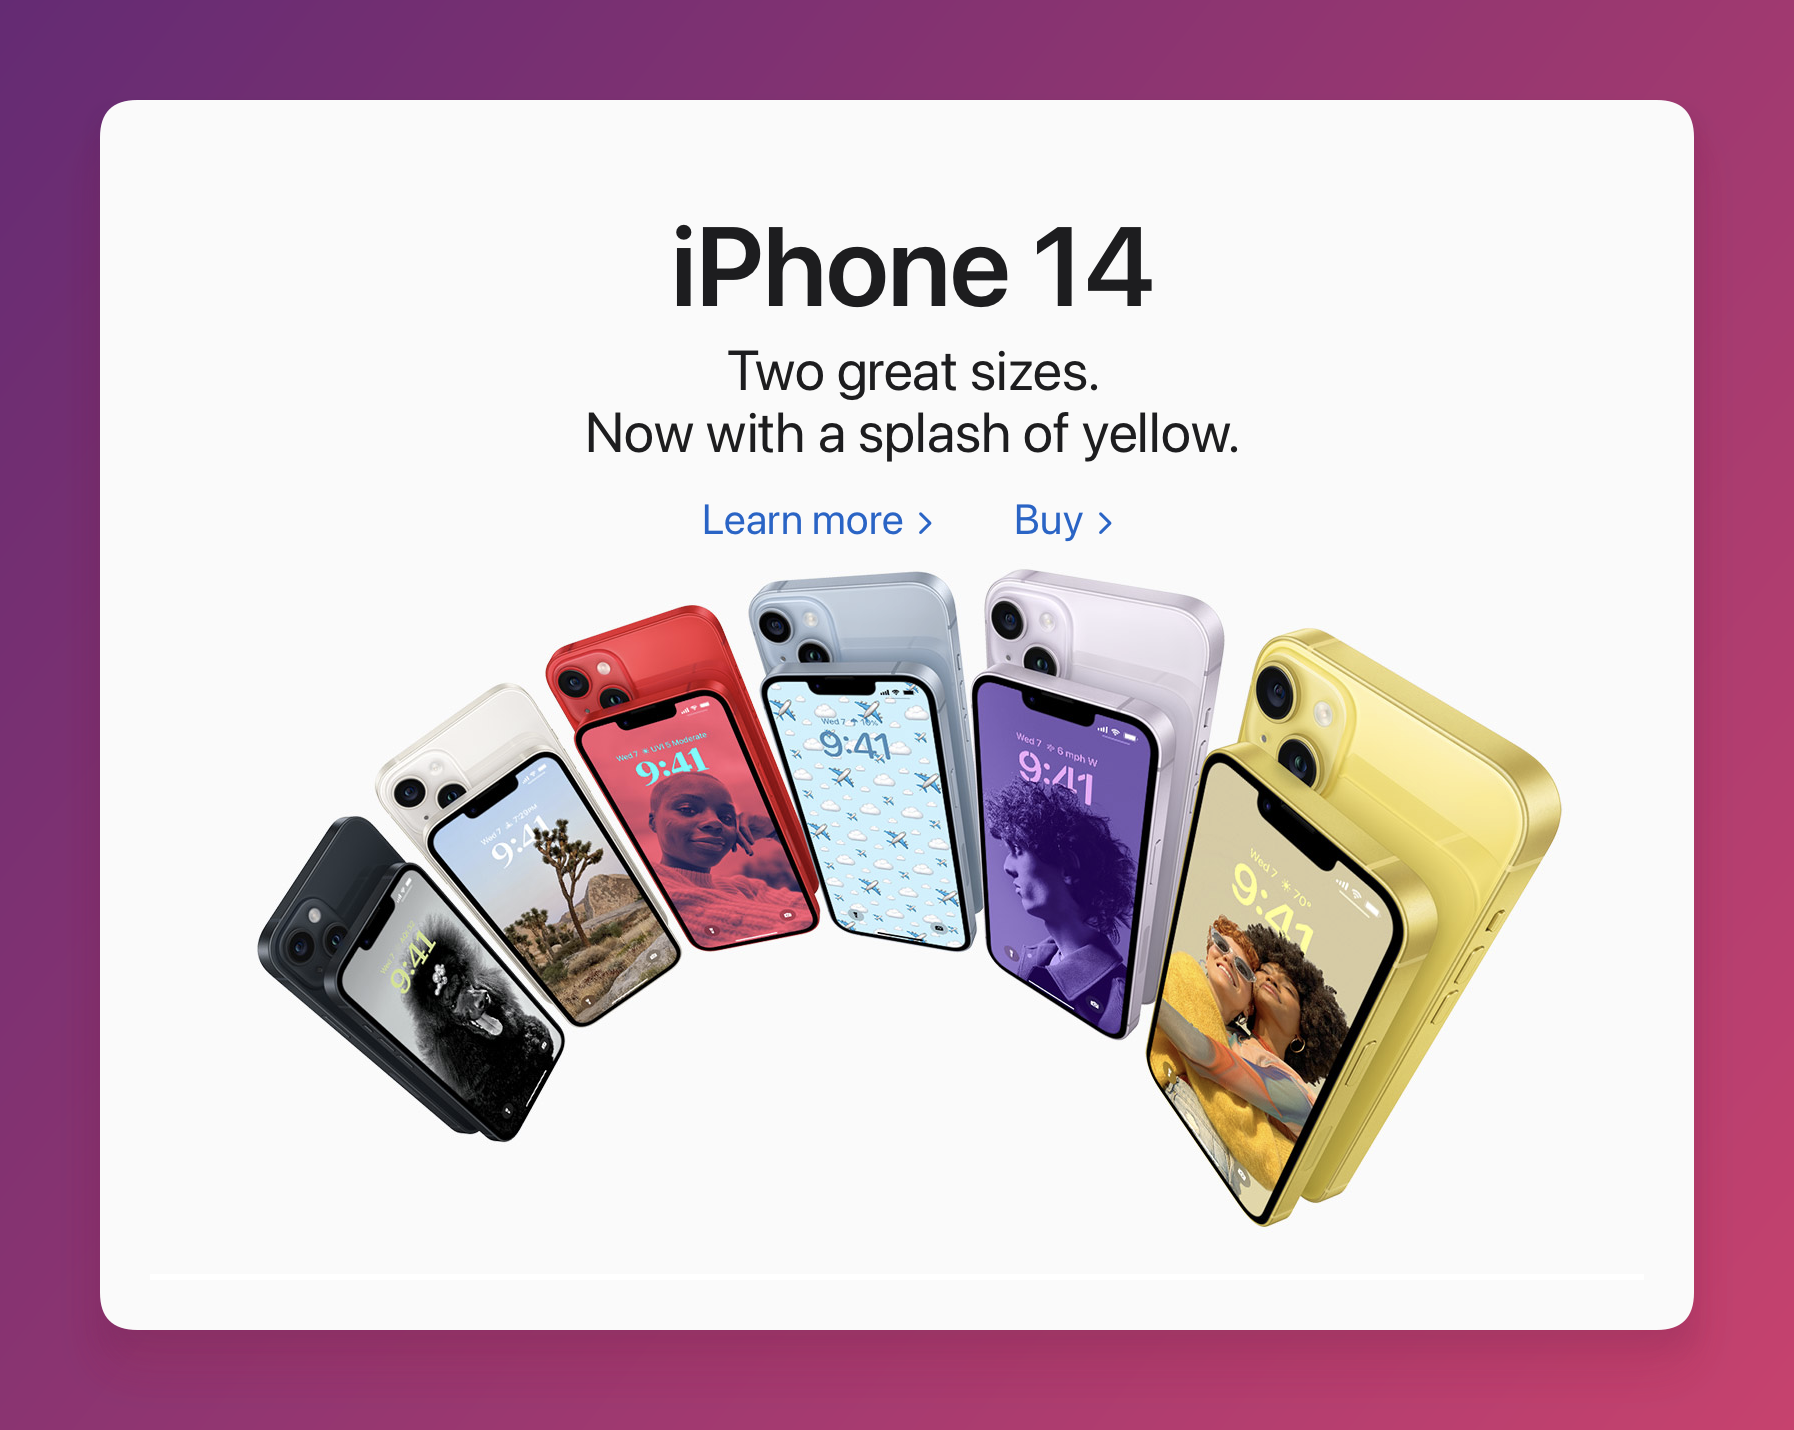
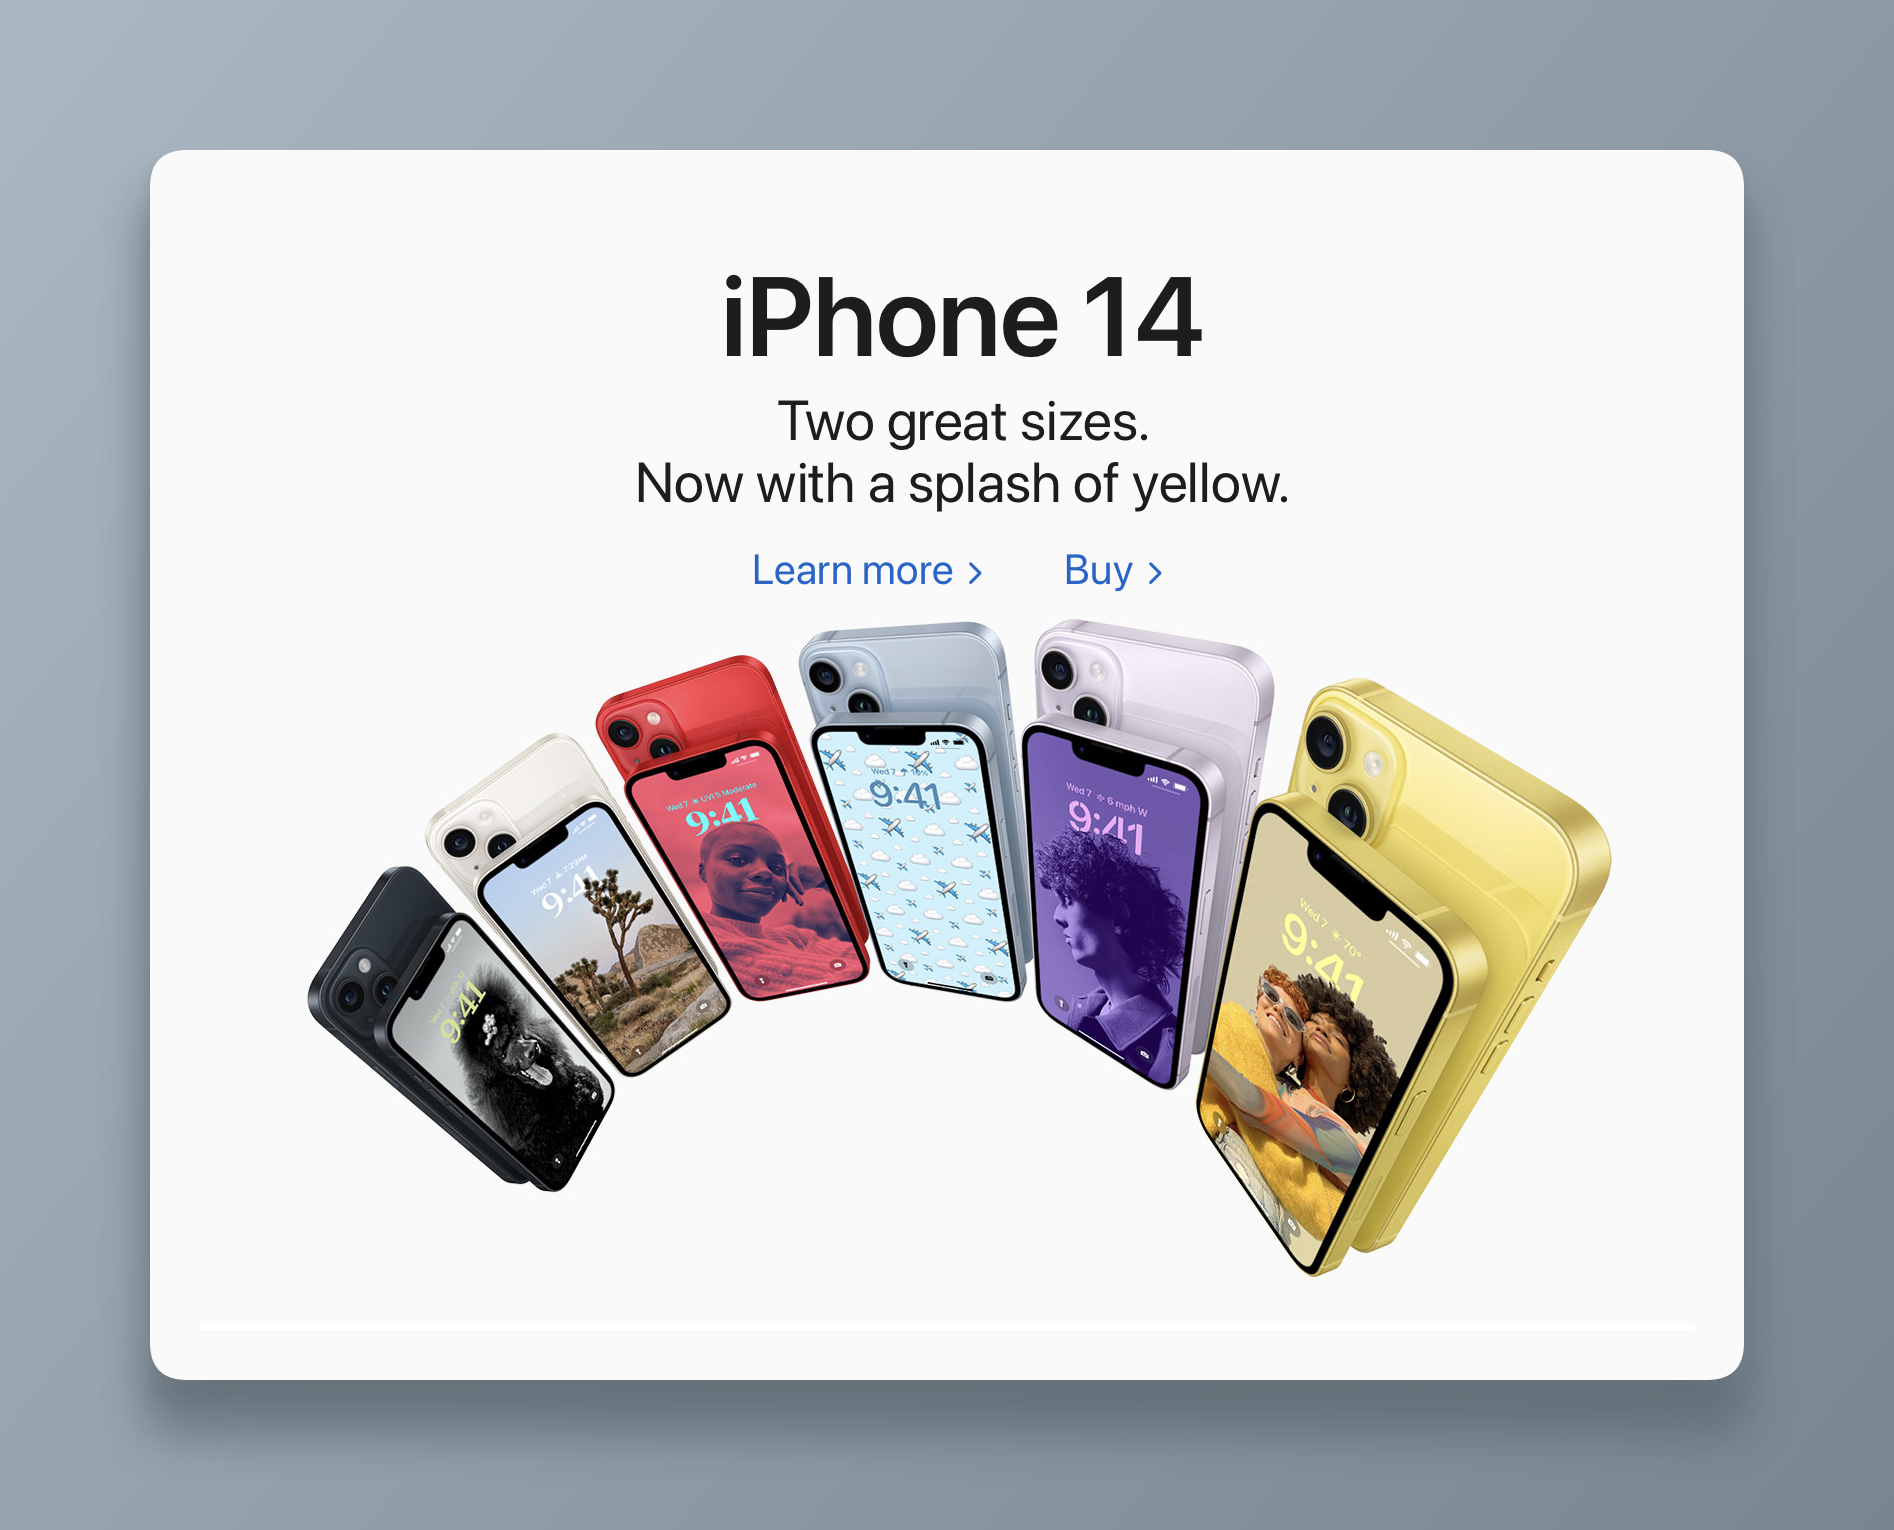
change bg color

diff --git a/src/index.js b/src/index.js
@@ -7,10 +7,10 @@ const args = process.argv.slice(2);
 // console.log("args:", args);
 
 const FILE_PATH = args[0] || "./pic.png";
-const PX = 100;
-const PY = 100;
-const FROM_COLOR = "#642B73";
-const TO_COLOR = "#C6426E";
+const PX = 150;
+const PY = 150;
+const FROM_COLOR = "#ABB8C3";
+const TO_COLOR = "#788692";
 export const SCAN_PADDING = 10;
 export const INSET = 50;
 export const RADIUS = 1 / 40;
@@ -35,9 +35,9 @@ createBackground(context, width, height, FROM_COLOR, TO_COLOR);
 
 const { w, h, x, y } = imagePosition;
 
-const t = (s, o = 20) => s + o;
-applyShadow(context, imagePosition, pSBC(-0.4, t(FROM_COLOR)), 20, 0, 15);
-applyShadow(context, imagePosition, pSBC(-0.4, t(TO_COLOR)), 40, 0, 40);
+const t = (s, o = 80) => s + o;
+applyShadow(context, imagePosition, pSBC(-0.4, t(FROM_COLOR)), 10, 0, 20);
+applyShadow(context, imagePosition, pSBC(-0.4, t(TO_COLOR)), 40, 0, 50);
 
 context.drawImage(image, x, y, w, h);
 
